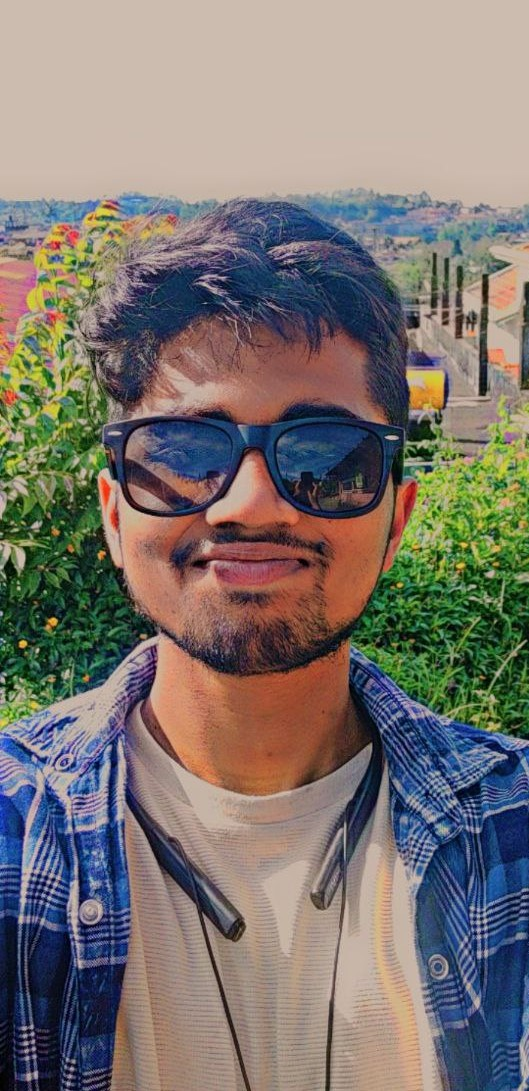
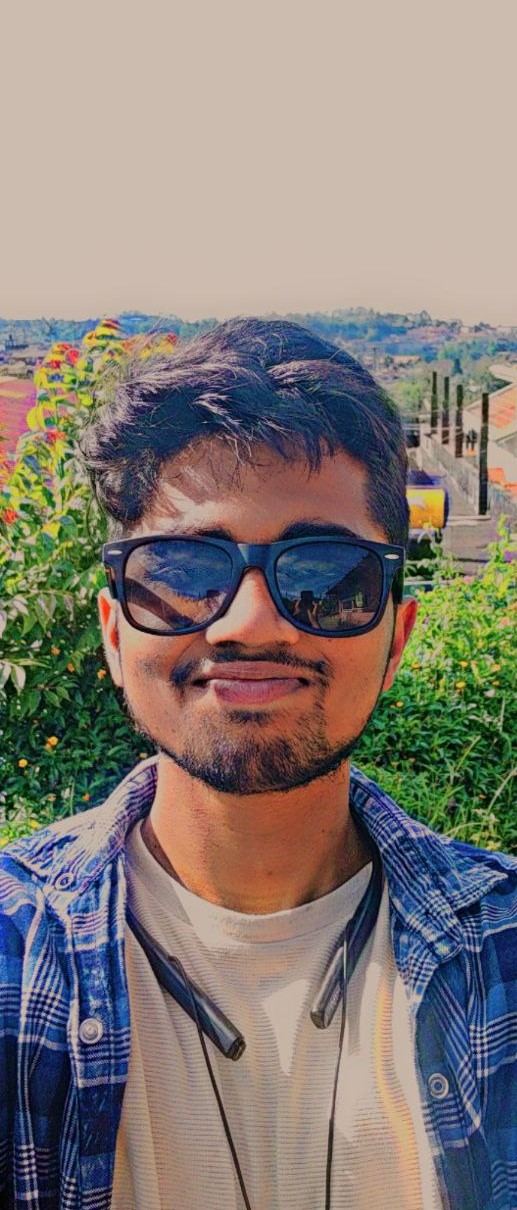
p1 crop again

diff --git a/src/data/headerData.js b/src/data/headerData.js
@@ -4,6 +4,6 @@ export const headerData = {
     name: 'Sameer Kumar Singh',
     title: "Web Developer",
     desciption:"Namasakar🙏 I am Sameer a budding Web developer , Software engineer and a proud Engineer.I am currently in 3rd year of my B.E. in RNS Institute of Technology specializing in Information Science.",
-    image: 'https://raw.githubusercontent.com/xvisierra/portfolio/main/src/assets/png/p1.jpg?token=GHSAT0AAAAAABZ5IMIFDNVY6LQZRJZHXLQWY26RU3Q',
+    image: 'https://raw.githubusercontent.com/xvisierra/portfolio/main/src/assets/png/p1.jpg?token=GHSAT0AAAAAABZ5IMIEKIJKPLRDXKGKE6JUY26RXOQ',
     resumePdf: resume
 }
